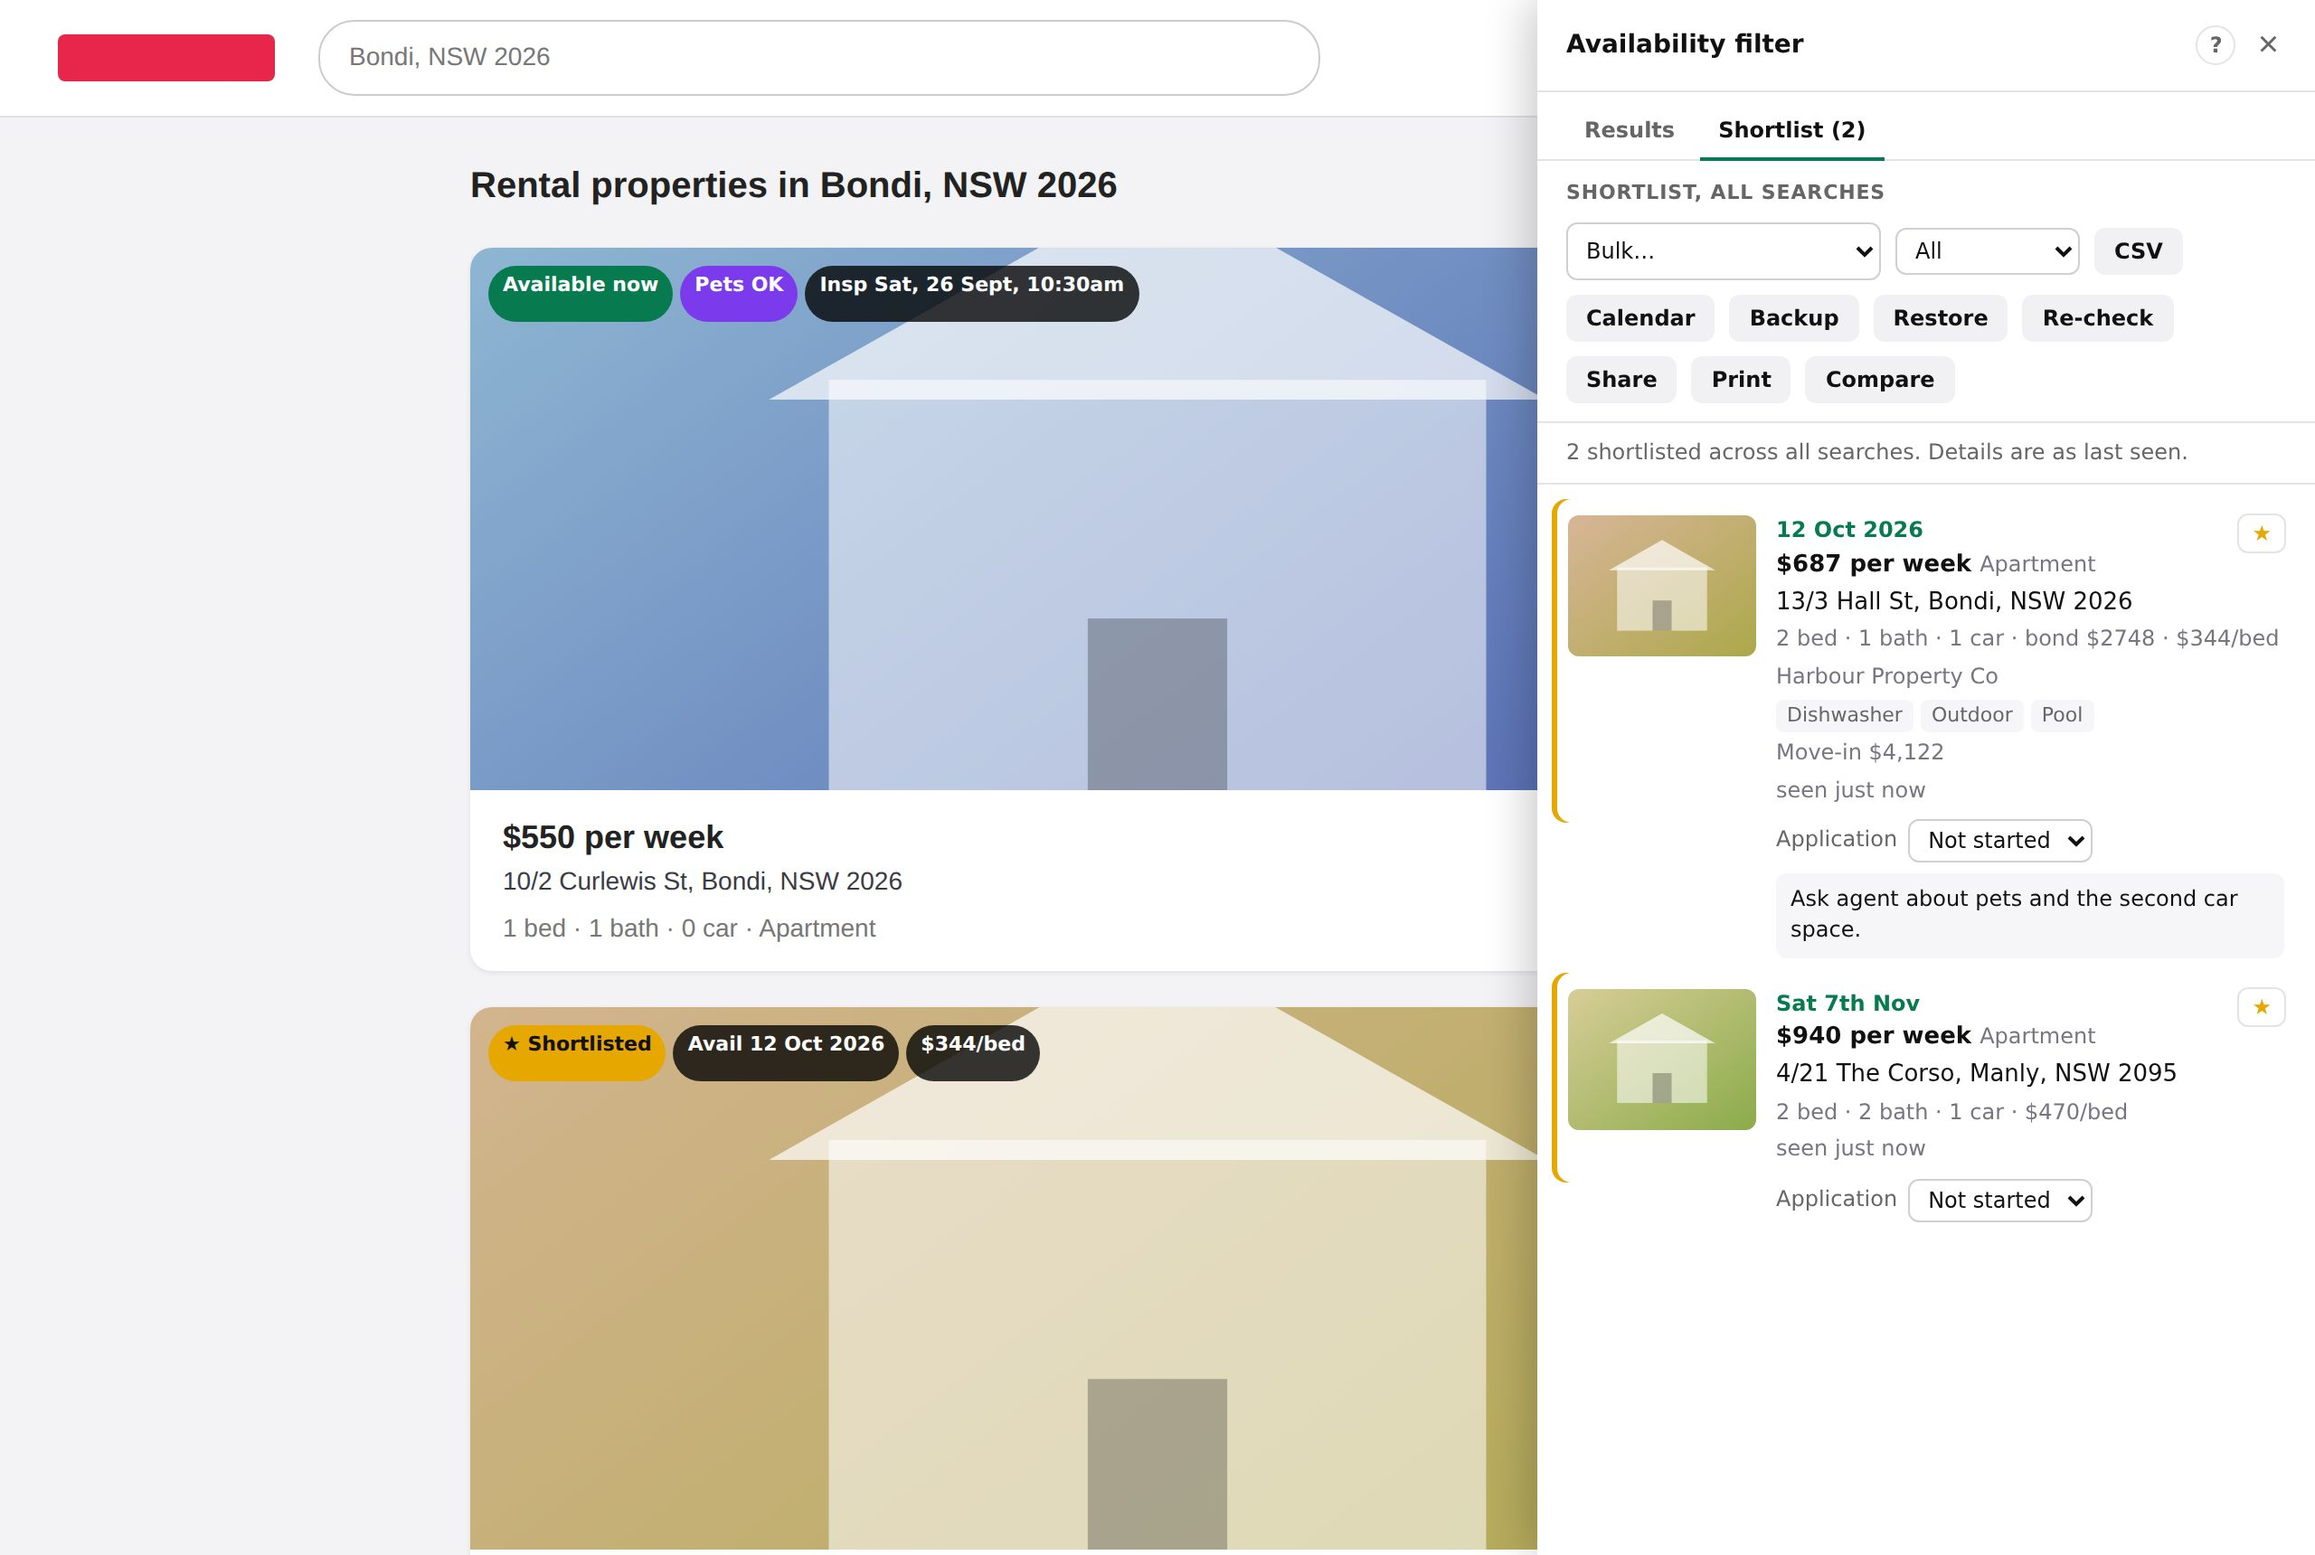
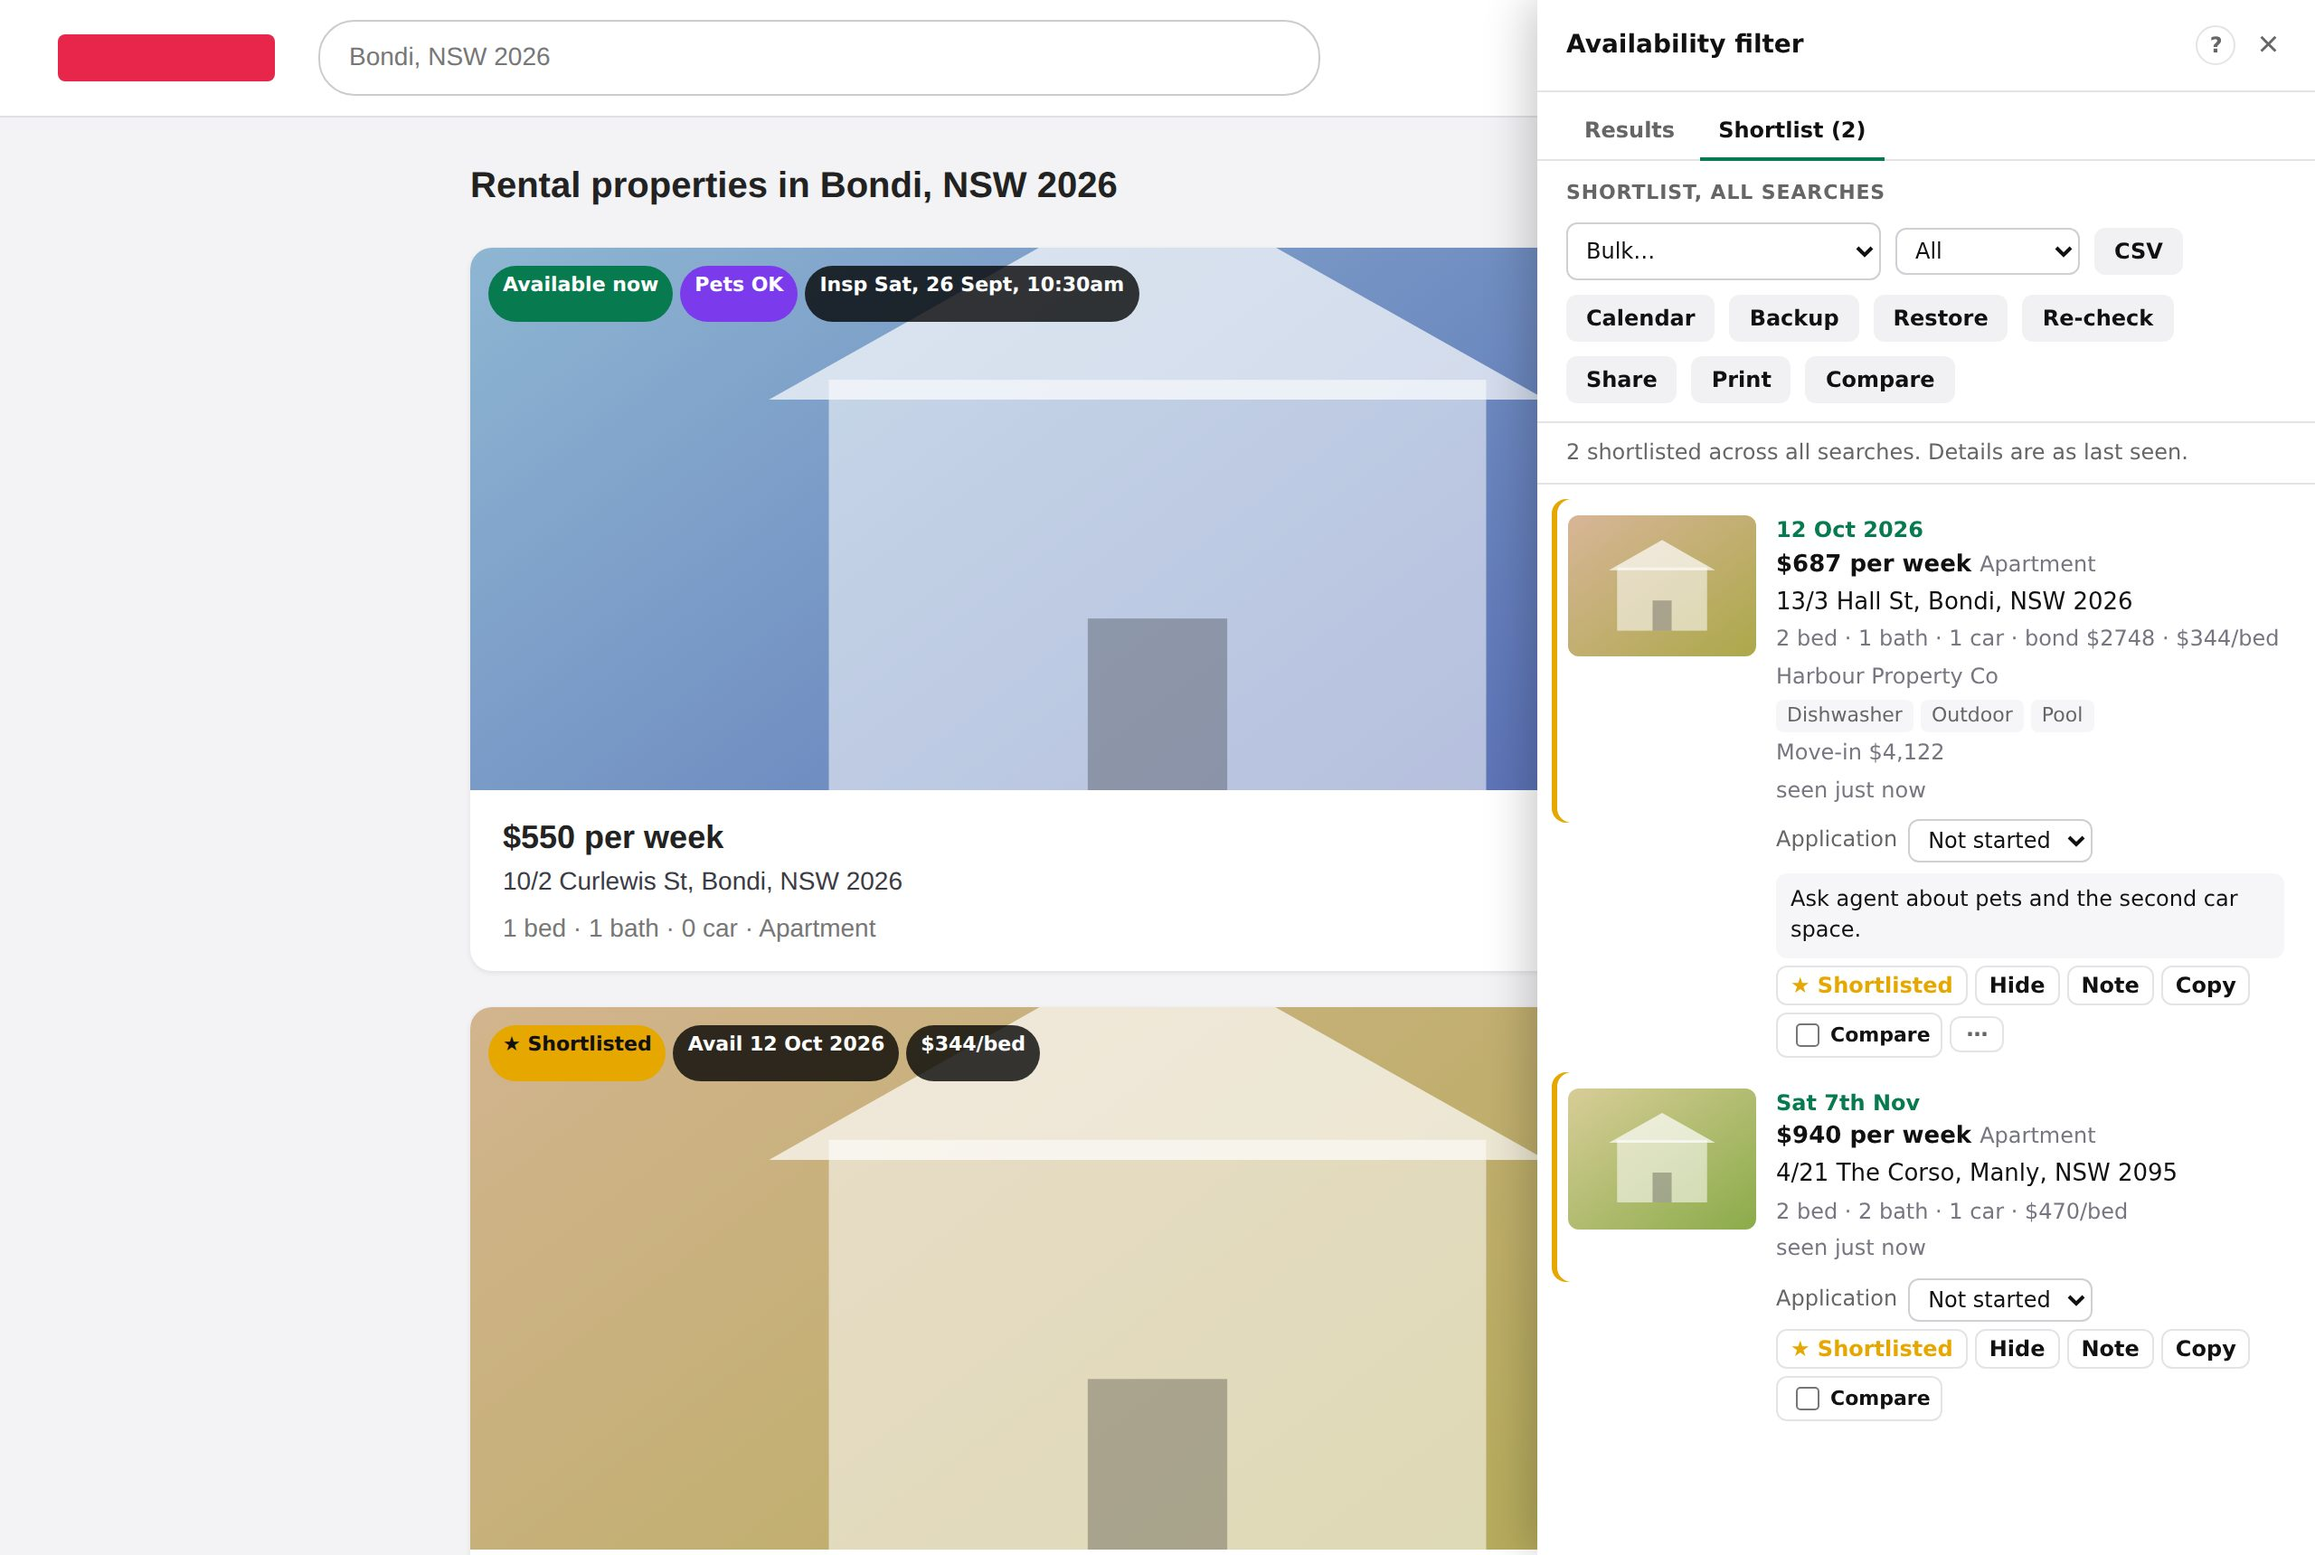
Mobile layout: search actions stay reachable, wider list rows, no wrapped buttons

Changed region(s): [[0.6562, 0.6163, 0.9688, 0.8012], [0.7812, 0.832, 0.9688, 0.9244]]

diff --git a/rea-availability-filter.user.js b/rea-availability-filter.user.js
@@ -1574,6 +1574,7 @@ ${r.note ? `<div class="n">${esc(r.note)}</div>` : ''}<div class="box">Notes at 
     letter-spacing:0;color:var(--rf-fg)}
   .rf-check input{margin:0;accent-color:var(--rf-accent)}
   .rf-actions{display:flex;gap:8px;align-items:center}
+  .rf-controls>.rf-actions:not(.rf-exports){position:sticky;bottom:-12px;background:var(--rf-bg);padding:6px 0;z-index:1}
   .rf-btn{flex:1;padding:9px 12px;border:0;border-radius:6px;background:var(--rf-accent);color:#fff;
     font:600 13px system-ui,sans-serif;cursor:pointer}
   .rf-btn:hover{background:var(--rf-accent-hover)}
@@ -1697,7 +1698,11 @@ ${r.note ? `<div class="n">${esc(r.note)}</div>` : ''}<div class="box">Notes at 
   .rf-badge .rf-b-down{background:#087a50}
   .rf-badge .rf-b-up{background:#c60}
   @media (max-width:480px){ #rf-launch{right:12px;bottom:12px} .rf-grid3{grid-template-columns:repeat(2,1fr)}
-    .rf-dates{grid-template-columns:1fr 1fr} .rf-dates>label:last-child{grid-column:1/-1} .rf-controls{max-height:40vh} }
+    .rf-dates{grid-template-columns:1fr 1fr} .rf-dates>label:last-child{grid-column:1/-1} .rf-controls{max-height:48vh}
+    .rf-actions{flex-wrap:wrap} .rf-actions .rf-bulk{flex:1 1 100%}
+    .rf-acts,.rf-note,.rf-note-edit,.rf-app{margin-left:9px} .rf-note-edit{width:calc(100% - 18px)}
+    .rf-card{grid-template-columns:88px 1fr} .rf-card img{width:88px;height:66px} }
+  .rf-btn{white-space:nowrap}
   `;
 
   const EMPTY_INTRO = 'Set your dates, then search.<br>Every result page is merged and sorted by availability.';
